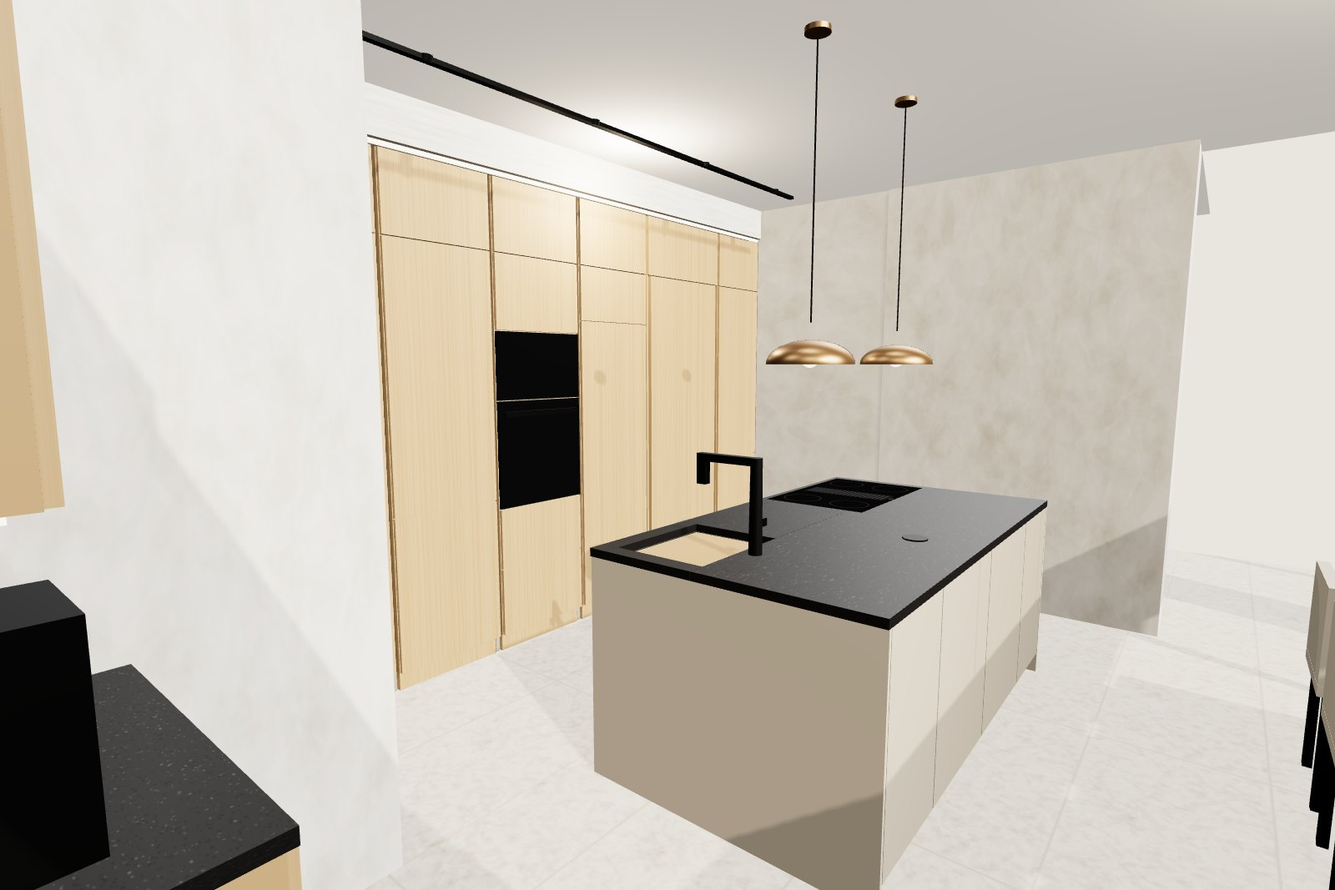
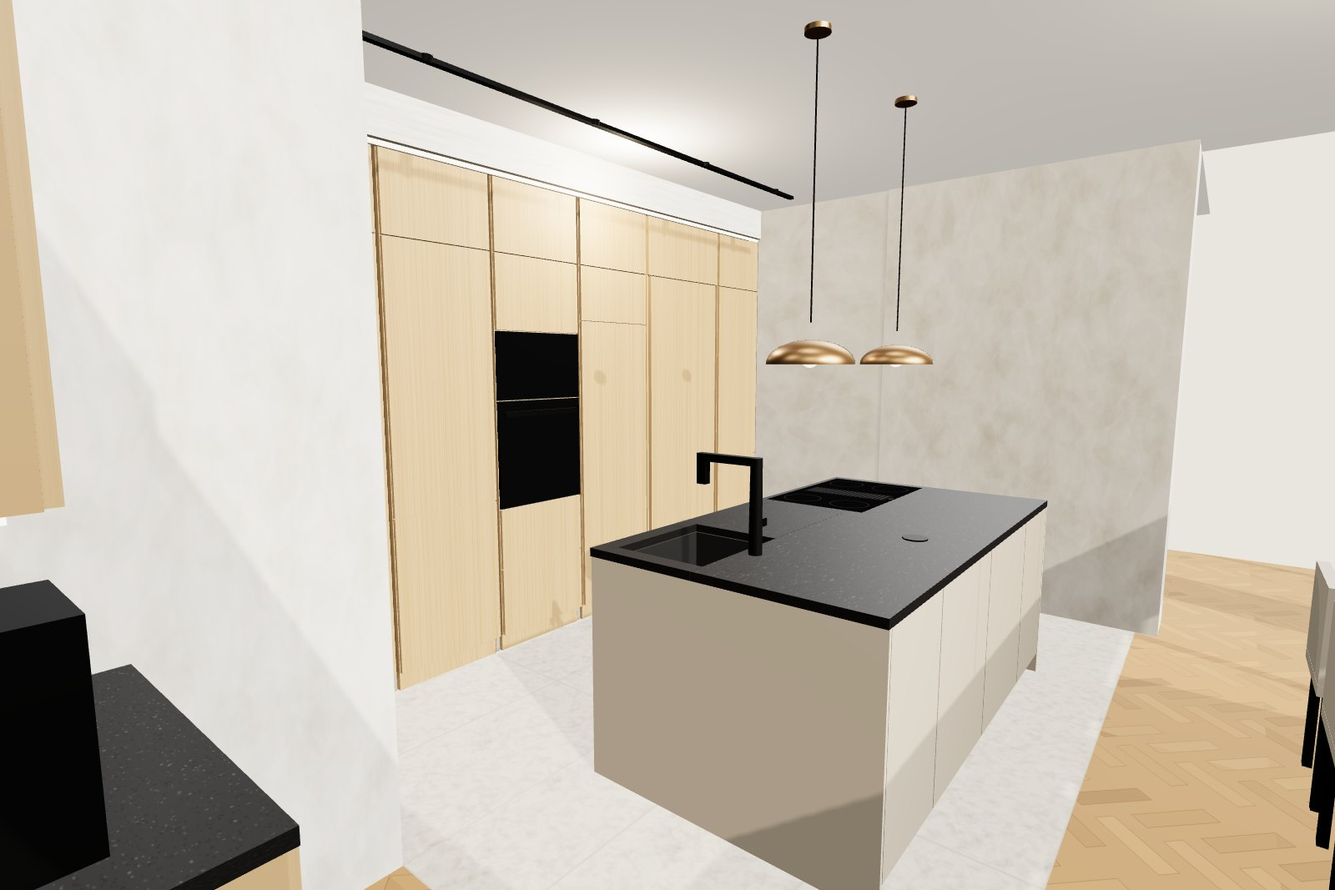
Küche: Abgleich Briefing Mai gegen Bestellung, Parkett mit Steinzone

Changed region(s): [[0.7812, 0.6186, 1.0, 1.0], [0.4688, 0.5876, 0.5625, 0.6495], [0.25, 0.9588, 0.3438, 1.0]]

diff --git a/kueche-7d42b9/index.html b/kueche-7d42b9/index.html
@@ -68,20 +68,20 @@ ul.tips, ol.decide { margin:0; padding-left:1.3em; display:grid; gap:9px; max-wi
 <section id="ansichten">
   <h2>So sieht es aus</h2>
   <div class="views">
-    <figure><a href="bilder/k_1_essplatz.jpg?v=1" target="_blank" rel="noopener"><img src="bilder/k_1_essplatz.jpg?v=1" alt="Blick vom Essplatz" loading="lazy"></a><figcaption>Vom Essplatz: Insel vor der Eichenwand, links die Station am Eingang</figcaption></figure>
-    <figure><a href="bilder/k_3_insel.jpg?v=1" target="_blank" rel="noopener"><img src="bilder/k_3_insel.jpg?v=1" alt="Blick von der Insel" loading="lazy"></a><figcaption>Wer kocht, schaut über den Tisch in den Garten</figcaption></figure>
-    <figure><a href="bilder/k_4_schrankwand.jpg?v=1" target="_blank" rel="noopener"><img src="bilder/k_4_schrankwand.jpg?v=1" alt="Schrankwand" loading="lazy"></a><figcaption>Schrankwand: Vorrat, Vorrat, Backofen und Mikrowelle, Kühlschrank, Tür, Geschirr</figcaption></figure>
-    <figure><a href="bilder/k_5_speisekammer.jpg?v=1" target="_blank" rel="noopener"><img src="bilder/k_5_speisekammer.jpg?v=1" alt="Tür zur Speisekammer" loading="lazy"></a><figcaption>Die Tür zur Speisekammer ist eine Schrankfront</figcaption></figure>
-    <figure><a href="bilder/k_2_eingang.jpg?v=1" target="_blank" rel="noopener"><img src="bilder/k_2_eingang.jpg?v=1" alt="Blick vom Eingang" loading="lazy"></a><figcaption>Vom Durchgang am Eingang</figcaption></figure>
-    <figure><a href="bilder/k_6_modell.jpg?v=1" target="_blank" rel="noopener"><img src="bilder/k_6_modell.jpg?v=1" alt="Modell von oben" loading="lazy"></a><figcaption>Modell von oben, Südost</figcaption></figure>
+    <figure><a href="bilder/k_1_essplatz.jpg?v=2" target="_blank" rel="noopener"><img src="bilder/k_1_essplatz.jpg?v=2" alt="Blick vom Essplatz" loading="lazy"></a><figcaption>Vom Essplatz: Insel vor der Eichenwand, links die Station am Eingang</figcaption></figure>
+    <figure><a href="bilder/k_3_insel.jpg?v=2" target="_blank" rel="noopener"><img src="bilder/k_3_insel.jpg?v=2" alt="Blick von der Insel" loading="lazy"></a><figcaption>Wer kocht, schaut über den Tisch in den Garten</figcaption></figure>
+    <figure><a href="bilder/k_4_schrankwand.jpg?v=2" target="_blank" rel="noopener"><img src="bilder/k_4_schrankwand.jpg?v=2" alt="Schrankwand" loading="lazy"></a><figcaption>Schrankwand: Vorrat, Vorrat, Backofen und Mikrowelle, Kühlschrank, Tür, Geschirr</figcaption></figure>
+    <figure><a href="bilder/k_5_speisekammer.jpg?v=2" target="_blank" rel="noopener"><img src="bilder/k_5_speisekammer.jpg?v=2" alt="Tür zur Speisekammer" loading="lazy"></a><figcaption>Die Tür zur Speisekammer ist eine Schrankfront</figcaption></figure>
+    <figure><a href="bilder/k_2_eingang.jpg?v=2" target="_blank" rel="noopener"><img src="bilder/k_2_eingang.jpg?v=2" alt="Blick vom Eingang" loading="lazy"></a><figcaption>Vom Durchgang am Eingang</figcaption></figure>
+    <figure><a href="bilder/k_6_modell.jpg?v=2" target="_blank" rel="noopener"><img src="bilder/k_6_modell.jpg?v=2" alt="Modell von oben" loading="lazy"></a><figcaption>Modell von oben, Südost</figcaption></figure>
     
   </div>
 </section>
 <section id="plan">
   <h2>Plan und Maße</h2>
   <div class="pair">
-    <figure><a href="bilder/plan_kueche_einrichtung.jpg?v=1" target="_blank" rel="noopener"><img src="bilder/plan_kueche_einrichtung.jpg?v=1" alt="Einrichtungsplan" loading="lazy"></a><figcaption>Einrichtungsplan mit Maßen (roh)</figcaption></figure>
-    <figure><a href="bilder/k_top.jpg?v=1" target="_blank" rel="noopener"><img src="bilder/k_top.jpg?v=1" alt="Draufsicht 3D" loading="lazy"></a><figcaption>3D-Modell von oben, gleiche Lage wie im Plan</figcaption></figure>
+    <figure><a href="bilder/plan_kueche_einrichtung.jpg?v=2" target="_blank" rel="noopener"><img src="bilder/plan_kueche_einrichtung.jpg?v=2" alt="Einrichtungsplan" loading="lazy"></a><figcaption>Einrichtungsplan mit Maßen (roh)</figcaption></figure>
+    <figure><a href="bilder/k_top.jpg?v=2" target="_blank" rel="noopener"><img src="bilder/k_top.jpg?v=2" alt="Draufsicht 3D" loading="lazy"></a><figcaption>3D-Modell von oben, gleiche Lage wie im Plan</figcaption></figure>
   </div>
   <ul class="tips">
     <li><b>Schrankwand</b> 0,60 tief, 2,60 hoch (Sockel 10 cm, Hochschrank bis 2,21, Aufsatz bis 2,60). Darüber bis zur Decke (etwa 2,85, angenommen) eine Kofferung mit Lichtfuge.</li>
@@ -92,8 +92,8 @@ ul.tips, ol.decide { margin:0; padding-left:1.3em; display:grid; gap:9px; max-wi
 <section id="anschluss">
   <h2>Anschlüsse: Strom, Wasser, Licht</h2>
   <div class="pair">
-    <figure><a href="bilder/plan_kueche_anschluss.jpg?v=1" target="_blank" rel="noopener"><img src="bilder/plan_kueche_anschluss.jpg?v=1" alt="Anschlussplan" loading="lazy"></a><figcaption>Anschlussplan: Nummern wie in der Tabelle</figcaption></figure>
-    <figure><a href="bilder/k_7_anschluesse.jpg?v=1" target="_blank" rel="noopener"><img src="bilder/k_7_anschluesse.jpg?v=1" alt="Anschlüsse im 3D-Modell" loading="lazy"></a><figcaption>Dieselben Punkte im 3D-Modell</figcaption></figure>
+    <figure><a href="bilder/plan_kueche_anschluss.jpg?v=2" target="_blank" rel="noopener"><img src="bilder/plan_kueche_anschluss.jpg?v=2" alt="Anschlussplan" loading="lazy"></a><figcaption>Anschlussplan: Nummern wie in der Tabelle</figcaption></figure>
+    <figure><a href="bilder/k_7_anschluesse.jpg?v=2" target="_blank" rel="noopener"><img src="bilder/k_7_anschluesse.jpg?v=2" alt="Anschlüsse im 3D-Modell" loading="lazy"></a><figcaption>Dieselben Punkte im 3D-Modell</figcaption></figure>
   </div>
   <div class="spec"><table><tr><th>Nr.</th><th>Was</th><th>Lage x / y · Höhe</th><th>Hinweis</th><th>Im Elektroplan</th></tr><tr><td><span class="dot" style="background:#d23c2c">E1</span></td><th>Backofen Siemens iQ300<br><span class="note">Strom</span></th><td class="m">1,55 / 0,30 m · 2,00</td><td>Steckdose im Fach über der Mikrowelle, eigener Stromkreis 16 A</td><td><span class="tag fehlt">fehlt</span></td></tr><tr><td><span class="dot" style="background:#d23c2c">E2</span></td><th>Mikrowelle Siemens iQ700<br><span class="note">Strom</span></th><td class="m">1,75 / 0,30 m · 2,00</td><td>Steckdose daneben, eigener Stromkreis empfohlen</td><td><span class="tag fehlt">fehlt</span></td></tr><tr><td><span class="dot" style="background:#d23c2c">E3</span></td><th>Kühlschrank Bosch 178<br><span class="note">Strom</span></th><td class="m">2,17 / 0,30 m · 2,05</td><td>Steckdose im Fach über dem Kühlschrank</td><td><span class="tag fehlt">fehlt</span></td></tr><tr><td><span class="dot" style="background:#d23c2c">E4</span></td><th>Saugroboter-Station<br><span class="note">Strom</span></th><td class="m">3,60 / 0,50 m · 0,15</td><td>Steckdose hinter dem Sockel am Geschirrschrank (BEWA-Notiz)</td><td><span class="tag fehlt">fehlt</span></td></tr><tr><td><span class="dot" style="background:#7a3fb0">K1</span></td><th>Kochfeld mit Abzug (Insel)<br><span class="note">Drehstrom</span></th><td class="m">2,45 / 2,05 m · Boden</td><td>400 V Drehstrom, 5 × 2,5 mm², 16 A, Anschlussdose im Kochfeldschrank</td><td><span class="tag fehlt">fehlt</span></td></tr><tr><td><span class="dot" style="background:#d23c2c">E5</span></td><th>Geschirrspüler, Quooker COMBI+ (2.200 W), Quooker CUBE<br><span class="note">Strom</span></th><td class="m">1,15 / 2,05 m · Boden</td><td>3 Steckdosen im Spülenschrank, Geschirrspüler und Quooker je eigener Stromkreis 16 A</td><td><span class="tag fehlt">fehlt</span></td></tr><tr><td><span class="dot" style="background:#d23c2c">E6</span></td><th>Steckdosenturm in der Insel (Vorschlag)<br><span class="note">Strom</span></th><td class="m">1,66 / 2,72 m · Platte</td><td>versenkbar, 2 Steckdosen + USB, eigener Stromkreis; Ausschnitt in der Steinplatte</td><td><span class="tag fehlt">fehlt</span></td></tr><tr><td><span class="dot" style="background:#2d7fc4">W1</span></td><th>Kalt- und Warmwasser Insel<br><span class="note">Wasser</span></th><td class="m">1,00 / 2,20 m · Boden</td><td>Quooker COMBI+ braucht kalt und warm, Geschirrspüler kalt; Eckventile im Spülenschrank</td><td><span class="tag">Sanitär</span></td></tr><tr><td><span class="dot" style="background:#6f6a62">A1</span></td><th>Abwasser DN 50 Insel<br><span class="note">Abwasser</span></th><td class="m">1,25 / 2,20 m · Boden</td><td>Spüle + Geschirrspüler; Gefälleleitung in der Dämmebene bis zur Fallleitung</td><td><span class="tag">Sanitär</span></td></tr><tr><td><span class="dot" style="background:#d23c2c">E7</span></td><th>Kaffeemaschine (Station, Vorschlag)<br><span class="note">Strom</span></th><td class="m">-1,25 / 2,15 m · 1,10</td><td>Doppelsteckdose über der Arbeitsplatte</td><td><span class="tag fehlt">fehlt</span></td></tr><tr><td><span class="dot" style="background:#d23c2c">E8</span></td><th>Getränkekühler (Station)<br><span class="note">Strom</span></th><td class="m">-1,00 / 1,69 m · 0,30</td><td>im Plan als „Kühlschrank 30“ schon vorhanden</td><td><span class="tag">ja</span></td></tr><tr><td><span class="dot" style="background:#d23c2c">E9</span></td><th>Gefrierschrank Speisekammer<br><span class="note">Strom</span></th><td class="m">3,10 / -1,78 m · 0,30</td><td>Steckdosen F18 an der Nordwand vorhanden, prüfen</td><td><span class="tag">ja</span></td></tr><tr><td><span class="dot" style="background:#c98f0a">L1</span></td><th>Zwei Pendel über der Insel<br><span class="note">Licht</span></th><td class="m">1,83 / 2,39 m · Decke</td><td>Auslass F18.2 vorhanden; zweiter Auslass oder Baldachin für zwei Pendel, dimmbar</td><td><span class="tag">1 von 2</span></td></tr><tr><td><span class="dot" style="background:#c98f0a">L2</span></td><th>Strahlerschiene 48 V vor der Schrankwand<br><span class="note">Licht</span></th><td class="m">0,30 / 1,05 m · Decke</td><td>1,05 m vor der Wand, von x 0,30 bis 3,60, Einspeisung am Westende</td><td><span class="tag fehlt">fehlt</span></td></tr><tr><td><span class="dot" style="background:#c98f0a">L3</span></td><th>LED-Schattenfuge über der Schrankwand<br><span class="note">Licht</span></th><td class="m">0,30 / 0,31 m · 2,70</td><td>Leitung für Netzteil in der Kofferung, geschaltet</td><td><span class="tag fehlt">fehlt</span></td></tr><tr><td><span class="dot" style="background:#c98f0a">L4</span></td><th>Zwei Pendel über dem Esstisch<br><span class="note">Licht</span></th><td class="m">1,54 / 4,82 m · Decke</td><td>F18.1 zweimal vorhanden, passt</td><td><span class="tag">ja</span></td></tr><tr><td><span class="dot" style="background:#c98f0a">L5</span></td><th>Licht Speisekammer mit Bewegungsmelder<br><span class="note">Licht</span></th><td class="m">1,90 / -0,60 m · Decke</td><td>Tür ist eine Schrankfront, außen kein Schalter sichtbar</td><td><span class="tag">prüfen</span></td></tr><tr><td><span class="dot" style="background:#c98f0a">L6</span></td><th>LED unter den Oberschränken der Station<br><span class="note">Licht</span></th><td class="m">-1,07 / 2,15 m · 1,44</td><td>geschaltet mit L3</td><td><span class="tag fehlt">fehlt</span></td></tr></table></div>
 </section>
@@ -102,10 +102,15 @@ ul.tips, ol.decide { margin:0; padding-left:1.3em; display:grid; gap:9px; max-wi
   <p class="note">Das muss vor Schlitzen, Fußbodenheizung und Estrich erledigt sein. Lage auf etwa 5 cm genau, x ab Innenseite Garagenwand, y ab Küchenseite der Abstellraumwand.</p>
   <h3>Elektriker (Zendeli)</h3><ul class="tips"><li>Im Elektroplan steht an der Schrankwand nur „Küchen Installation nach Plan“. Diese Liste ersetzt den fehlenden BEWA-Elektroplan: E1 bis E4 in der Wand zum Abstellraum, L3 in der Kofferung.</li><li>Insel: Leerrohre aus dem Boden für K1 (400 V), E5 (3 Steckdosen, 2 eigene Kreise) und E6 (Steckdosenturm), dazu ein Reserve-Leerrohr M25. Lage auf ±5 cm wie im Anschlussplan.</li><li>Licht: zweiter Auslass über der Insel (L1), Einspeisung Schiene (L2), Bewegungsmelder Speisekammer (L5), Dimmer am Schalterblock an der Treppe (F18.2) für Insel, Schiene und Fuge.</li><li>Station am Eingang: Doppelsteckdose 1,10 (E7) und LED (L6); die Dose „Kühlschrank 30“ (E8) bleibt.</li><li>Stromkreise Küche zusammen: Kochfeld 400 V, Backofen, Geschirrspüler, Quooker, Mikrowelle, Arbeitssteckdosen Insel, Kühlschrank/Station, Licht.</li></ul><h3>Installateur (Spahl)</h3><ul class="tips"><li>Insel: Kalt- und Warmwasser (W1) und Abwasser DN 50 (A1) aus dem Boden im Spülenschrank. Quooker COMBI+ braucht beide Wasser.</li><li>Abwasser: Gefälle (mind. 1 %) in der Dämmebene bis zur nächsten Fallleitung prüfen. Geht das nicht, bleibt nur eine Hebeanlage im Spülenschrank – das kostet den Platz für den Abfall.</li><li>Eckventil mit Geräteanschluss für den Geschirrspüler; Absperrung der Insel-Leitungen gut erreichbar.</li></ul><h3>Heizung (Neuroth)</h3><ul class="tips"><li>Heizkreisverteiler HKV1 sitzt am Westende der Wand Küche/Abstellraum. Kasten zur Abstellraum-Seite, er darf nicht in die Küche durchstehen: direkt dahinter steht der erste Vorratsschrank.</li><li>Keine Heizschleifen unter der Insel (2,13 × 1,17 m) und unter der Schrankwand (0,60 m tief). Die Zuleitungen vom HKV1 um die Insel-Anschlüsse herumführen.</li><li>Insel-Anschlüsse (K1, E5, E6, W1, A1) vor dem Verlegen der Fußbodenheizung setzen.</li></ul><h3>Lüftung</h3><ul class="tips"><li>Abluftventil der Lüftung in der Küche nicht über der Insel und nicht über dem Kochfeld. Das Kochfeld saugt nach unten im Umluftbetrieb, ein Mauerkasten ist nicht nötig.</li></ul><h3>Küchenstudio BEWA</h3><ul class="tips"><li>Nach dem Innenputz aufmessen: Die Wand zwischen Garagen- und Treppenwand ist laut Plan roh 3,88 m, BEWA plant 4,00 m. Ohne Änderung passt die Schrankwand nicht.</li><li>Elektro- und Sanitärplan liefern (seit Ende August angefragt) oder diese Liste bestätigen.</li><li>Lieferadresse in beiden Kaufverträgen ändern: Dort steht nicht die Baustelle.</li><li>Ausschnitt für den Steckdosenturm in der Steinplatte vor der Fertigung mitbestellen.</li></ul>
 </section>
+<section id="abgleich">
+  <h2>Was ihr im Mai wolltet und was bestellt ist</h2>
+  <p>Euer Briefing an PLANA vom 07.05. gegen die Teilelisten vom 11.06. Manches kann im Videotermin am 13.05. bewusst anders entschieden worden sein. Was nicht passt, lässt sich ändern, solange BEWA noch nicht fertigt.</p>
+  <div class="spec"><table><tr><th>Wunsch im Mai</th><th>Bestellt</th><th></th></tr><tr><th>Raumhohe Schrankwand, ruhige Optik</th><td>Schrankwand Feineiche bis 2,60 m, grifflos</td><td><span class="tag">passt</span></td></tr><tr><th>Unsichtbare Tür zum Abstellraum</th><td>Durchgangstür als Schrankfront</td><td><span class="tag">passt</span></td></tr><tr><th>Quooker heiß, kalt, sprudelnd</th><td>Quooker COMBI+ und CUBE</td><td><span class="tag">passt</span></td></tr><tr><th>Dunstabzug unauffällig</th><td>Kochfeld mit Abzug nach unten, Umluft</td><td><span class="tag">passt</span></td></tr><tr><th>Mehr Holz, helle matte oder keramische Flächen</th><td>Eiche ja; Insel Polymerglas Sandbeige</td><td><span class="tag fehlt">teilweise</span></td></tr><tr><th>Arbeitsplatte Keramik, hell wie auf den Bildern</th><td>Naturstein Winning Black, schwarz</td><td><span class="tag fehlt">anders</span></td></tr><tr><th>Spüle Keramik</th><td>BLANCO Silgranit schwarz</td><td><span class="tag fehlt">anders</span></td></tr><tr><th>Kochfeld mit 5 Zonen</th><td>Downline Advance 83 cm (Zonen laut Datenblatt prüfen)</td><td><span class="tag fehlt">prüfen</span></td></tr><tr><th>Zwei Geschirrspüler oder ein sehr starker</th><td>ein Siemens iQ300, 60 cm</td><td><span class="tag fehlt">anders</span></td></tr><tr><th>Großer Kühlschrank, größer als der Side-by-Side heute</th><td>Bosch Einbau 177,5 cm ohne Gefrierfach</td><td><span class="tag fehlt">anders</span></td></tr><tr><th>Thermomix, Espresso, Toaster, Wasserkocher im Schrank, angeschlossen, ausziehbar</th><td>kein Geräteschrank mit Steckdosen und Auszug</td><td><span class="tag fehlt">fehlt</span></td></tr><tr><th>Abstellraum mit Gerätezone, evtl. zweite Spüle</th><td>nicht Teil der Bestellung</td><td><span class="tag fehlt">fehlt</span></td></tr></table></div>
+</section>
 <section id="material">
   <h2>Material, abgestimmt auf die Bäder</h2>
-  <p>Der Boden, der Kalkputz und die Eiche sind dieselben wie in den Bädern. Neu sind Sandbeige an der Insel und Schwarz an Platte, Spüle und Armatur. Die Pendel in gebürsteter Bronze holen den Ton der Bad-Armaturen in die Küche.</p>
-  <div class="swatches"><div class="sw"><div class="chip" style="background:#d8cfc1"></div><b>Boden</b><span>Fliese 120 × 60 Kalkstein hell, wie in den Bädern</span></div><div class="sw"><div class="chip" style="background:#ece6dc"></div><b>Wände</b><span>Kalkputz warmweiß</span></div><div class="sw"><div class="chip" style="background:#c4a074"></div><b>Schrankwand</b><span>Feineiche natur, grifflos</span></div><div class="sw"><div class="chip" style="background:#d3c6b2"></div><b>Insel</b><span>Polymerglas Sandbeige</span></div><div class="sw"><div class="chip" style="background:#c9bcaa"></div><b>Wangen</b><span>Kaschmir matt</span></div><div class="sw"><div class="chip" style="background:#a59b8d"></div><b>Griffmulden</b><span>Sandgrau matt</span></div><div class="sw"><div class="chip" style="background:#232120"></div><b>Arbeitsplatte</b><span>Winning Black satiniert, Spüle, Armatur, Kochfeld schwarz</span></div><div class="sw"><div class="chip" style="background:#b48d62"></div><b>Leuchten</b><span>Bronze gebürstet, wie die Armaturen der Bäder</span></div></div>
+  <p>Wie auf euren Vorbildern: Fischgrätparkett im Essbereich, darin eine Zone aus hellem Stein unter Insel und Schrankwand. Der Stein, der Kalkputz und die Eiche sind dieselben wie in den Bädern. Neu sind Sandbeige an der Insel und Schwarz an Platte, Spüle und Armatur. Die Pendel in gebürsteter Bronze holen den Ton der Bad-Armaturen in die Küche.</p>
+  <div class="swatches"><div class="sw"><div class="chip" style="background:#d8cfc1"></div><b>Boden Küche</b><span>Fliese 120 × 60 Kalkstein hell wie in den Bädern, als Zone unter Insel und Schrankwand</span></div><div class="sw"><div class="chip" style="background:#b98d5c"></div><b>Boden Essen</b><span>Fischgrätparkett Eiche, wie im ganzen Haus geplant</span></div><div class="sw"><div class="chip" style="background:#ece6dc"></div><b>Wände</b><span>Kalkputz warmweiß</span></div><div class="sw"><div class="chip" style="background:#c4a074"></div><b>Schrankwand</b><span>Feineiche natur, grifflos</span></div><div class="sw"><div class="chip" style="background:#d3c6b2"></div><b>Insel</b><span>Polymerglas Sandbeige</span></div><div class="sw"><div class="chip" style="background:#c9bcaa"></div><b>Wangen</b><span>Kaschmir matt</span></div><div class="sw"><div class="chip" style="background:#a59b8d"></div><b>Griffmulden</b><span>Sandgrau matt</span></div><div class="sw"><div class="chip" style="background:#232120"></div><b>Arbeitsplatte</b><span>Winning Black satiniert, Spüle, Armatur, Kochfeld schwarz</span></div><div class="sw"><div class="chip" style="background:#b48d62"></div><b>Leuchten</b><span>Bronze gebürstet, wie die Armaturen der Bäder</span></div></div>
 </section>
 <section id="ausstattung">
   <h2>Ausstattung</h2>
@@ -121,14 +126,14 @@ ul.tips, ol.decide { margin:0; padding-left:1.3em; display:grid; gap:9px; max-wi
 </section>
 <section id="fragen">
   <h2>Offene Fragen an dich</h2>
-  <ol class="decide"><li><b>Schrankwand zu breit.</b> Laut Plan ist die Wand roh 3,88 m, BEWA plant 4,00 m. Mein Vorschlag: BEWA misst nach dem Innenputz auf, der Geschirrschrank wird 50 oder 55 cm statt 60. Einverstanden?</li><li><b>Lieferadresse.</b> In beiden Kaufverträgen steht nicht die Baustelle als Lieferadresse. Soll ich dir eine kurze Mail an BEWA als Entwurf schreiben?</li><li><b>Elektro- und Sanitärplan.</b> BEWA hat seit Ende August keinen Anschlussplan geschickt. Soll die Anschlussliste hier als Vorlage für Zendeli und Spahl gelten? Dann schicke ich dir einen Mailentwurf an Herrn Reeser.</li><li><b>Abwasser der Insel.</b> Kann die Leitung mit Gefälle im Fußbodenaufbau zur Fallleitung laufen? Das muss Spahl vor dem Estrich prüfen. Sonst bleibt nur eine Hebeanlage.</li><li><b>Gefrierschrank.</b> Bestellt ist nur ein Kühlschrank ohne Gefrierfach. Soll ein Gefrierschrank in die Speisekammer?</li><li><b>Quooker im Spülenschrank.</b> COMBI+, CUBE und zwei Abfalleimer in einem 60er Schrank wird eng. BEWA fragen, sonst den CUBE in den 45er Schrank auf der Rückseite?</li><li><b>Station am Eingang.</b> Das 91-cm-Element („Oberschränke push to open“) und der „kleine Kühler“ aus der BEWA-Notiz sind nicht bestellt. Soll die Getränke- und Kaffeestation wie im Modell dazu?</li><li><b>Schwarz oder Bronze.</b> Platte, Spüle, Armatur und Kochfeld sind schwarz, in den Bädern ist Bronze gesetzt. Mein Vorschlag: Schwarz bleibt, die Pendel in Bronze verbinden beides. Passt das?</li><li><b>Kofferung bis zur Decke.</b> Die Schränke enden bei 2,60 m, die Decke liegt bei etwa 2,85 m. Kofferung mit Lichtfuge oder offen lassen?</li><li><b>Boden Küche und Essen.</b> Fliese 120 × 60 in Kalkstein wie in den Bädern oder Parkett wie im Wohnbereich?</li><li><b>Licht über der Insel.</b> Zwei Pendel statt einem? Dann braucht der Elektriker einen zweiten Auslass.</li><li><b>Steckdosenturm.</b> Versenkbarer Turm in der Steinplatte? Der Ausschnitt muss vor der Fertigung bestellt werden.</li></ol>
+  <ol class="decide"><li><b>Schrankwand zu breit.</b> Laut Plan ist die Wand roh 3,88 m, BEWA plant 4,00 m. Mein Vorschlag: BEWA misst nach dem Innenputz auf, der Geschirrschrank wird 50 oder 55 cm statt 60. Einverstanden?</li><li><b>Lieferadresse.</b> In beiden Kaufverträgen steht nicht die Baustelle als Lieferadresse. Soll ich dir eine kurze Mail an BEWA als Entwurf schreiben?</li><li><b>Elektro- und Sanitärplan.</b> BEWA hat seit Ende August keinen Anschlussplan geschickt. Soll die Anschlussliste hier als Vorlage für Zendeli und Spahl gelten? Dann schicke ich dir einen Mailentwurf an Herrn Reeser.</li><li><b>Abwasser der Insel.</b> Kann die Leitung mit Gefälle im Fußbodenaufbau zur Fallleitung laufen? Das muss Spahl vor dem Estrich prüfen. Sonst bleibt nur eine Hebeanlage.</li><li><b>Gefrierschrank.</b> Bestellt ist nur ein Kühlschrank ohne Gefrierfach. Soll ein Gefrierschrank in die Speisekammer?</li><li><b>Quooker im Spülenschrank.</b> COMBI+, CUBE und zwei Abfalleimer in einem 60er Schrank wird eng. BEWA fragen, sonst den CUBE in den 45er Schrank auf der Rückseite?</li><li><b>Station am Eingang.</b> Das 91-cm-Element („Oberschränke push to open“) und der „kleine Kühler“ aus der BEWA-Notiz sind nicht bestellt. Soll die Getränke- und Kaffeestation wie im Modell dazu?</li><li><b>Helle statt schwarze Platte?.</b> Deine Vorbilder vom Mai zeigen eine helle Keramik-Insel aus einem Guss, bestellt ist Naturstein Winning Black. Soll ich BEWA fragen, was Keramik hell (Platte und Wangen) kostet, solange noch nicht gefertigt ist?</li><li><b>Kofferung bis zur Decke.</b> Die Schränke enden bei 2,60 m, die Decke liegt bei etwa 2,85 m. Kofferung mit Lichtfuge oder offen lassen?</li><li><b>Planungsmappe von PLANA.</b> Per Mail kamen nur Grundrisse und Teilelisten, keine Ansichten, Perspektiven und kein Installationsplan. Hat Inga die Mappe aus dem Studio? Sonst schreibe ich dir einen Mailentwurf an Herrn Brüne-Frehmann.</li><li><b>Licht über der Insel.</b> Zwei Pendel statt einem? Dann braucht der Elektriker einen zweiten Auslass.</li><li><b>Steckdosenturm.</b> Versenkbarer Turm in der Steinplatte? Der Ausschnitt muss vor der Fertigung bestellt werden.</li></ol>
 </section>
 </div>
 <script type="importmap">{"imports":{"three":"https://cdn.jsdelivr.net/npm/three@0.160.0/build/three.module.js","three/addons/":"https://cdn.jsdelivr.net/npm/three@0.160.0/examples/jsm/"}}</script>
 <script type="module">
 import * as THREE from 'three';
 import { OrbitControls } from 'three/addons/controls/OrbitControls.js';
-import { makeRenderer, makeScene, setMode, setDoor, showMarks, CEIL } from './kueche3d.js?v=1';
+import { makeRenderer, makeScene, setMode, setDoor, showMarks, CEIL } from './kueche3d.js?v=2';
 const box = document.getElementById('viewer'), cv = document.getElementById('cv'), msg = document.getElementById('msg');
 let renderer, scene, room, cam, ctl, marks = false, door = false;
 function size() { const r = box.getBoundingClientRect(); return [Math.max(1, r.width), Math.max(1, r.height)]; }

diff --git a/kueche-7d42b9/kueche3d.js b/kueche-7d42b9/kueche3d.js
@@ -70,6 +70,21 @@ const hobTex = canvasTex(512, 320, (g, w, h) => {      // Induktionsfeld mit Abz
   g.fillStyle = 'rgba(200,200,200,0.5)'; g.font = '16px sans-serif'; g.fillText('- 6 +', w / 2 - 20, h - 6);
 });
 
+const herringTex = canvasTex(512, 512, (g, w, h) => {   // Fischgrät Eiche, Stab 60 x 10 cm (Kachel 1,2 m)
+  g.fillStyle = '#b98d5c'; g.fillRect(0, 0, w, h);
+  const r = rnd(19), L = 256, B = 42.7;
+  for (let row = -2; row < 16; row++) for (let col = -2; col < 4; col++) for (const s of [0, 1]) {
+    const x0 = col * 2 * B * 3 + s * B * 3, y0 = row * B * 2 + s * B * 1.0;
+    g.save(); g.translate(x0, y0); g.rotate(s ? -Math.PI / 4 : Math.PI / 4);
+    const tone = 0.88 + r() * 0.2; g.fillStyle = `rgb(${185 * tone | 0},${141 * tone | 0},${92 * tone | 0})`;
+    g.fillRect(0, 0, L * 0.47, B * 0.72); g.strokeStyle = 'rgba(80,55,30,0.35)'; g.lineWidth = 1.2; g.strokeRect(0, 0, L * 0.47, B * 0.72);
+    g.restore();
+  }
+});
+function parquetMat(u, v) {
+  const t = herringTex.clone(); t.needsUpdate = true; t.repeat.set(u / 1.2, v / 1.2);
+  return new THREE.MeshStandardMaterial({ map: t, roughness: 0.6 });
+}
 function tileMat(u, v) {
   const t = tileTex.clone(); t.needsUpdate = true; t.repeat.set(u / 1.2, v / 0.6);
   return new THREE.MeshStandardMaterial({ map: t, roughness: 0.55 });
@@ -330,10 +345,14 @@ function stair(r) {    // Treppe neben der Küche, vereinfacht (18 Stufen 18,06 
 export function kitchen() {
   const r = new Room();
   // Böden: Küche, Erweiterung nach Westen und Süden (Essen)
+  // Steinzone unter Schrankwand und Insel (wie auf den Vorbildern), sonst Fischgrätparkett
   r.floor(0, 0, 3.883, 1.688);
-  r.floor(-1.251, 1.688, 5.40, 4.608);
-  r.floor(4.149, 1.688, 2.15, 1.75);
-  r.floor(4.149, 3.438, 2.15, 2.858, false);      // Luftraum OG über dem Wohnbereich
+  r.floor(0, 1.688, 3.883, 1.64);
+  r.floor(-1.251, 1.688, 1.251, 4.608, true, parquetMat(1.251, 4.608));
+  r.floor(0, 3.328, 4.149, 2.968, true, parquetMat(4.149, 2.968));
+  r.floor(3.883, 1.688, 0.266, 1.64, true, parquetMat(0.266, 1.64));
+  r.floor(4.149, 1.688, 2.15, 1.75, true, parquetMat(2.15, 1.75));
+  r.floor(4.149, 3.438, 2.15, 2.858, false, parquetMat(2.15, 2.858));      // Luftraum OG über dem Wohnbereich
   // Wände
   r.wall(0, -0.115, 3.883, 0.115, 'N', [r.gapO(2.482, 3.283, TALL)]);       // Abstellraum/Küche, Tür auf Küchenplanung abgestimmt
   r.wall(-0.365, -2.145, 4.73, 0.365, 'N');
